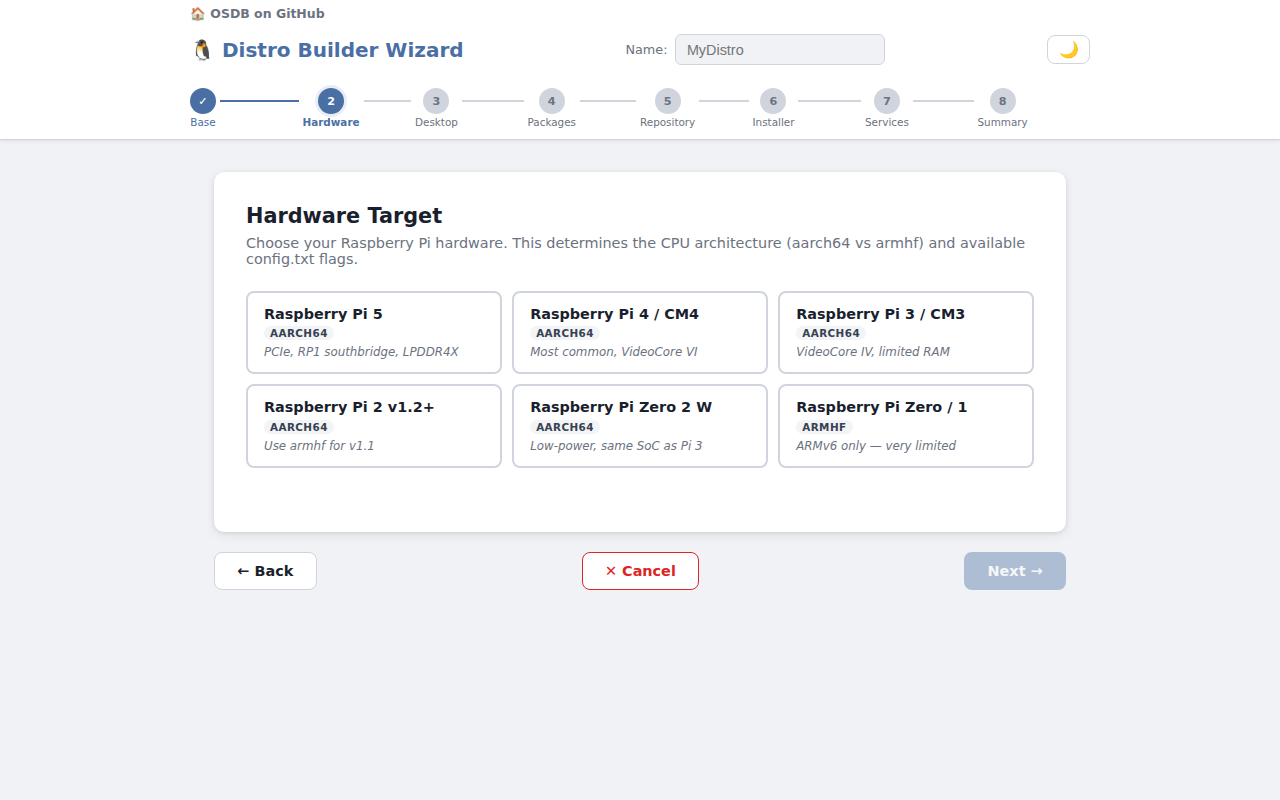
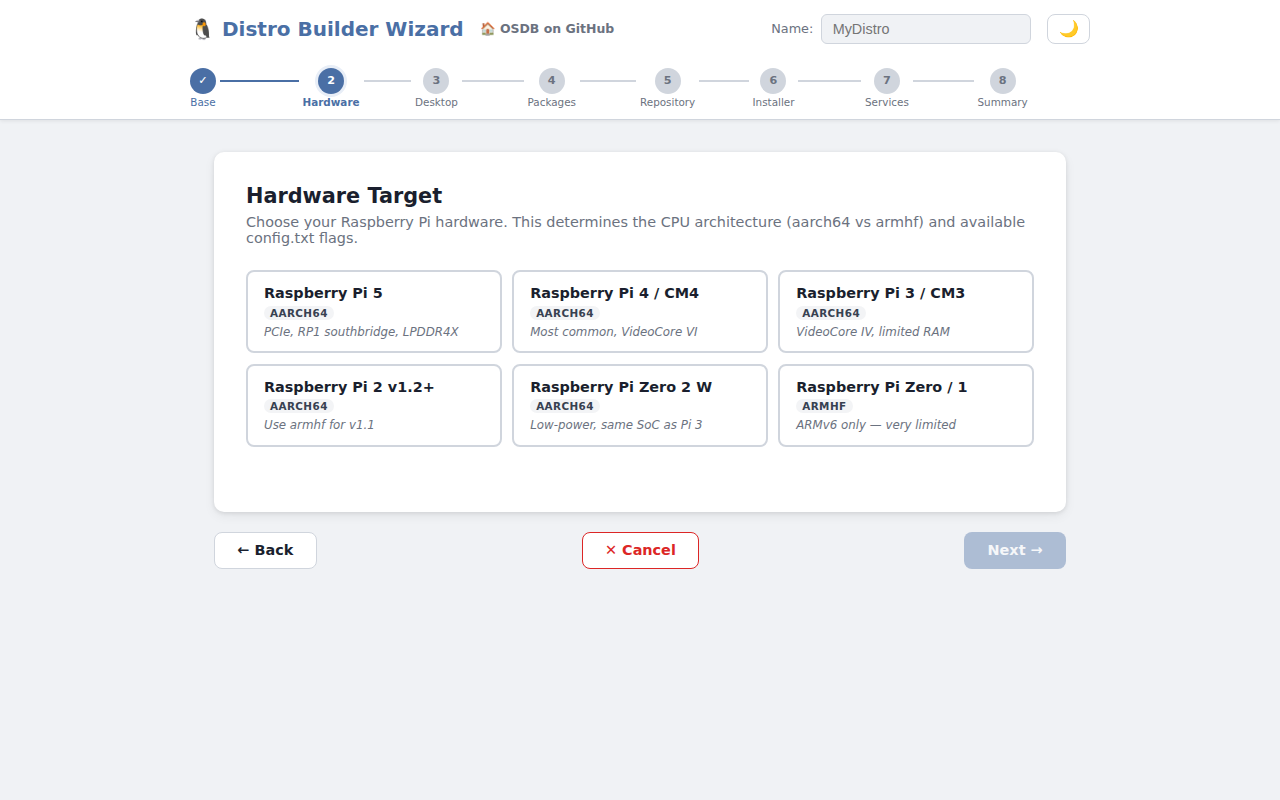
fix: move home link inline with header, right-align distro name input, update screenshots
Agent-Logs-Url: https://github.com/FugginOld/OSDB/sessions/397cfc12-2dba-4797-a331-b4faf7bf2369

diff --git a/docs/styles.css b/docs/styles.css
@@ -106,12 +106,13 @@ header {
   box-shadow: 0 1px 4px rgba(0,0,0,.08);
 }
 
-.header-top-bar {
+.header-inner {
   max-width: 900px;
   margin: 0 auto;
-  padding: 0.35rem 0 0;
   display: flex;
   align-items: center;
+  padding: 0.85rem 0;
+  gap: 1rem;
 }
 
 .home-link {
@@ -119,6 +120,7 @@ header {
   font-weight: 600;
   color: var(--text-muted);
   text-decoration: none;
+  white-space: nowrap;
   display: inline-flex;
   align-items: center;
   gap: 0.3rem;
@@ -128,16 +130,6 @@ header {
 .home-link:hover {
   color: var(--primary);
   text-decoration: underline;
-}
-
-.header-inner {
-  max-width: 900px;
-  margin: 0 auto;
-  display: flex;
-  align-items: center;
-  justify-content: space-between;
-  padding: 0.85rem 0;
-  gap: 1rem;
 }
 
 header h1 {
@@ -152,6 +144,7 @@ header h1 {
   align-items: center;
   gap: 0.5rem;
   flex: 0 1 260px;
+  margin-left: auto;
 }
 
 .distro-name-wrap label {

diff --git a/docs/index.html b/docs/index.html
@@ -23,11 +23,9 @@
 <body>
 
 <header>
-  <div class="header-top-bar">
-    <a href="https://github.com/FugginOld/OSDB" class="home-link" target="_blank" rel="noopener" aria-label="OSDB GitHub repository">🏠 OSDB on GitHub</a>
-  </div>
   <div class="header-inner">
     <h1>🐧 Distro Builder Wizard</h1>
+    <a href="https://github.com/FugginOld/OSDB" class="home-link" target="_blank" rel="noopener" aria-label="OSDB GitHub repository">🏠 OSDB on GitHub</a>
     <div class="distro-name-wrap">
       <label for="distro-name">Name:</label>
       <input type="text" id="distro-name" placeholder="MyDistro" maxlength="40" autocomplete="off" />
